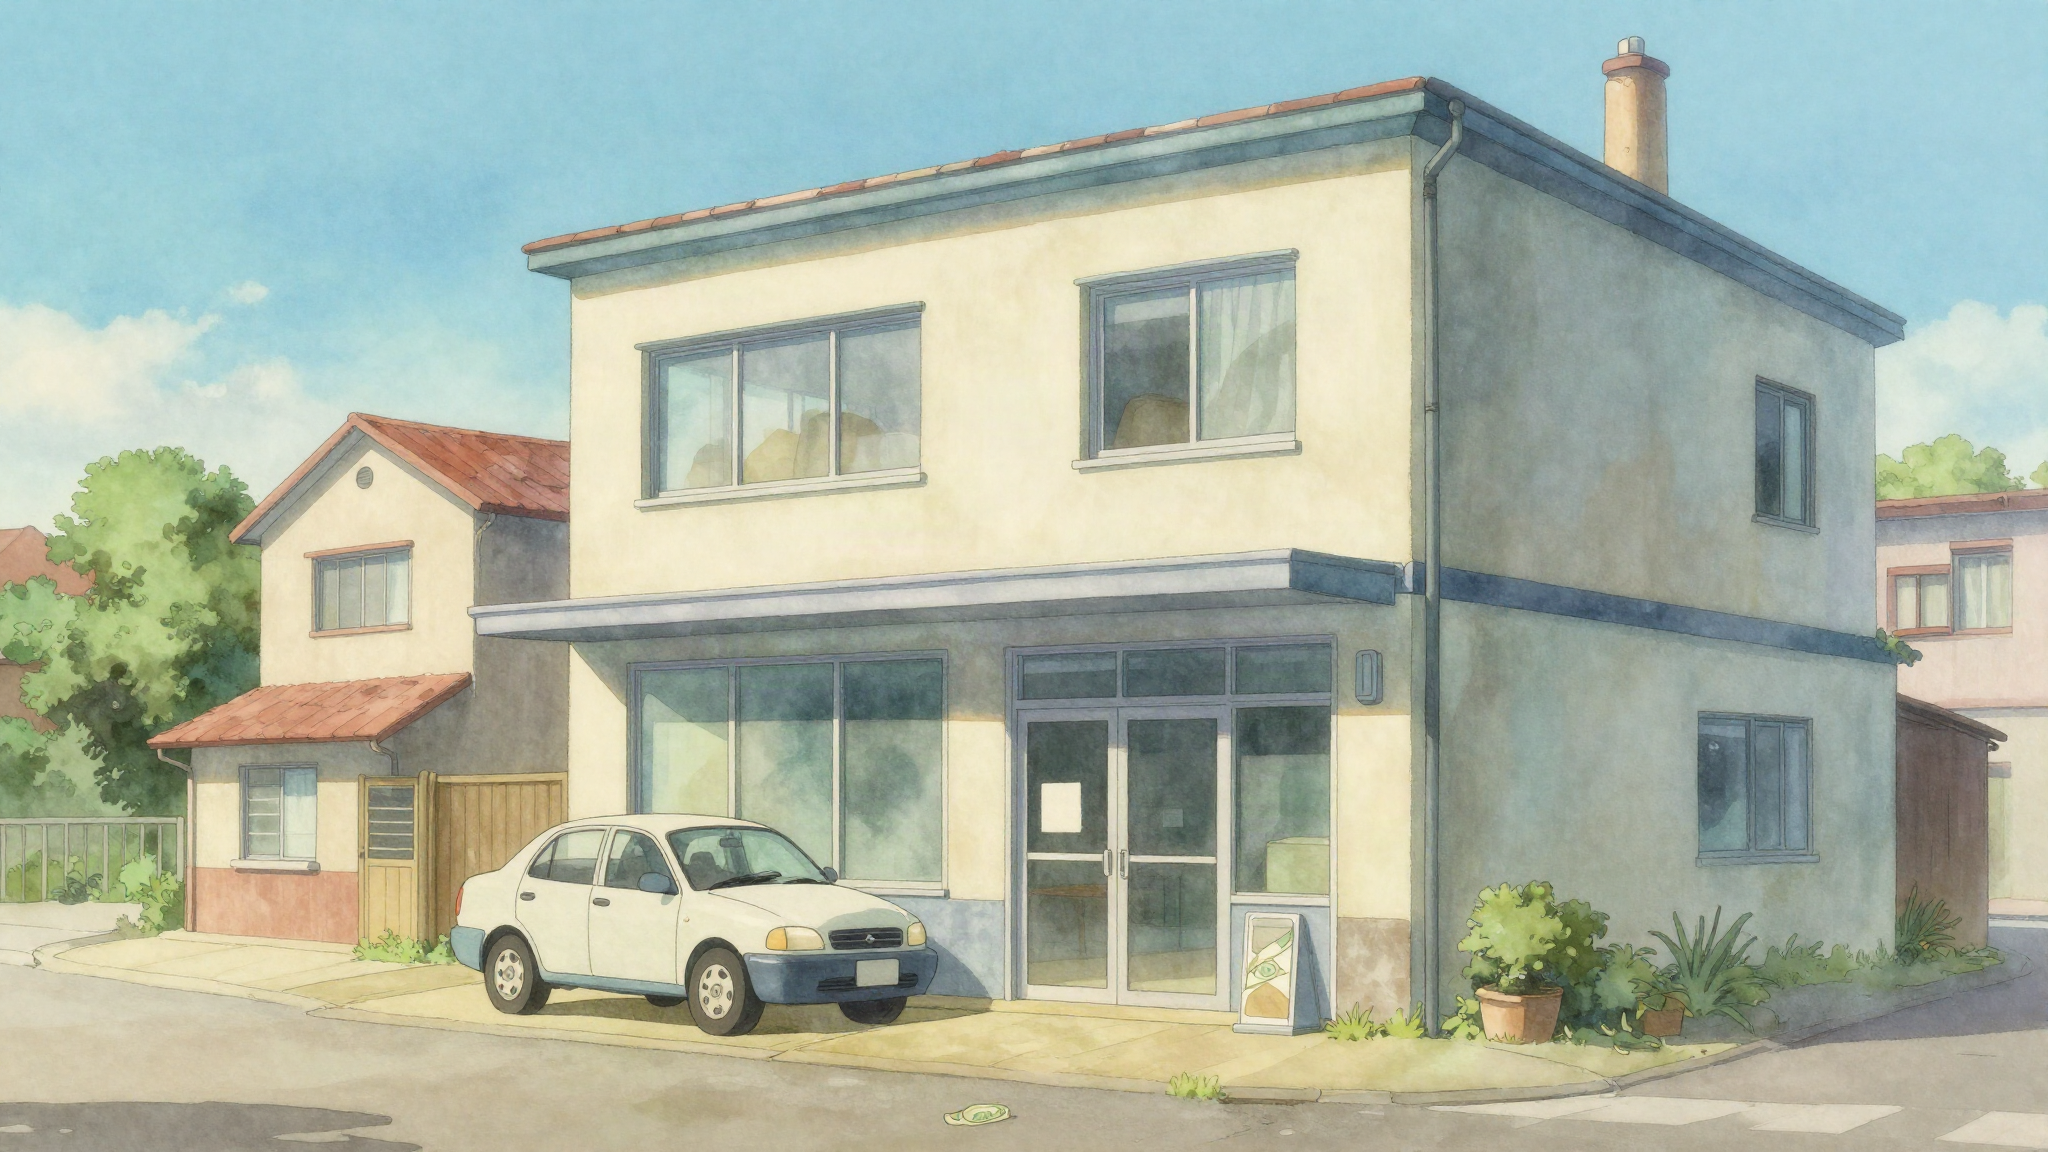
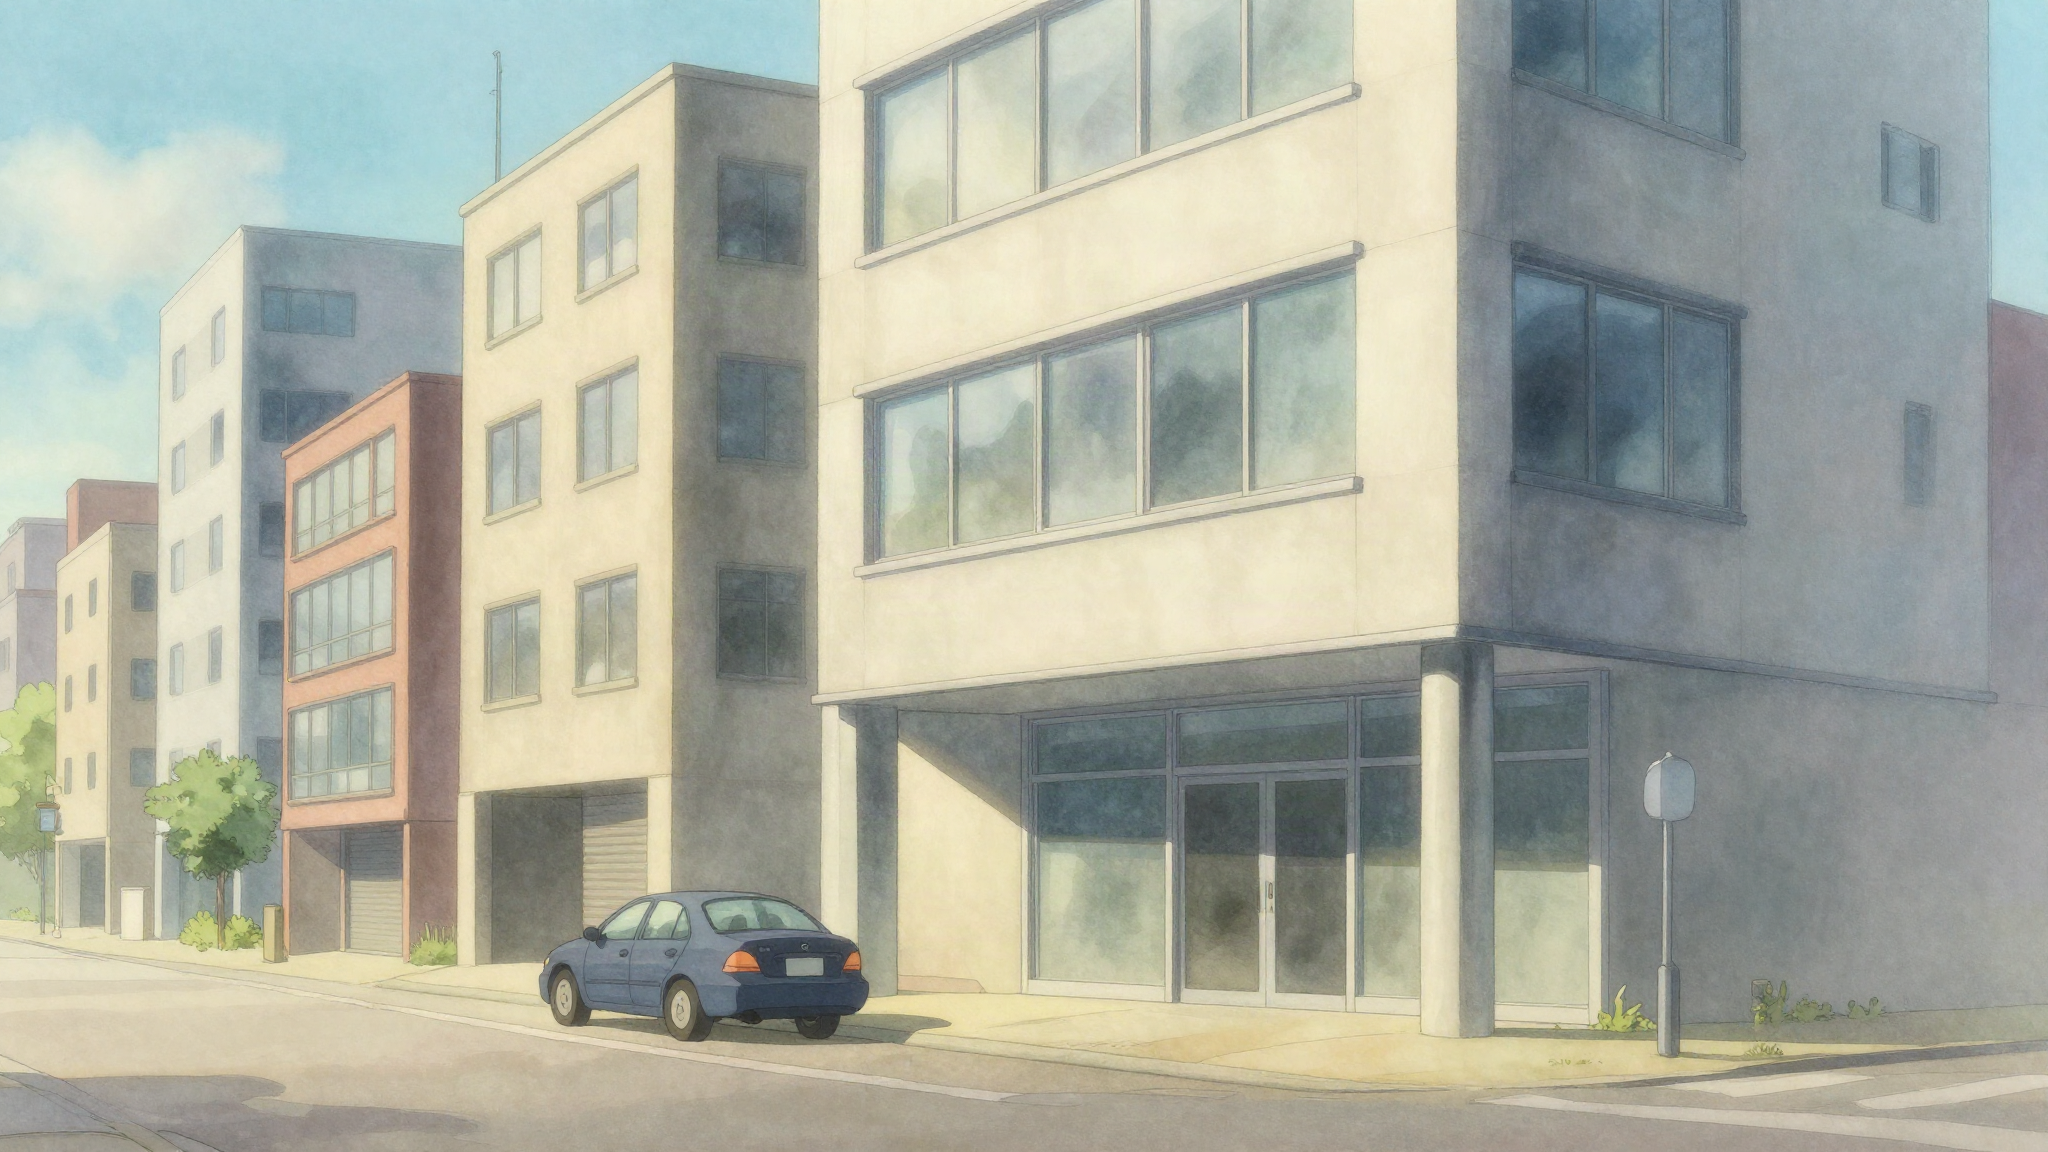
Renew all imagery with city skyline setting for loan-brokerage identity
Replace countryside/house scenes with urban buildings, office towers, and
a city street, matching a loan brokerage (대부중개업) business rather than
a general rural-feeling consultancy. Regenerated a few images a second
time after the model rendered stray fake text on signage/documents.

diff --git a/components/sections/services.tsx b/components/sections/services.tsx
@@ -44,7 +44,7 @@ export function Services() {
             <div className="relative mt-8 hidden aspect-3/2 overflow-hidden rounded-4xl border border-border/60 shadow-lg shadow-primary/5 md:block">
               <Image
                 src="/images/services.png"
-                alt="자동차와 현금을 두고 금융중개 상담을 진행하는 모습"
+                alt="도심 사무실에서 차량 키와 현금을 주고받으며 대부중개 상담을 진행하는 모습"
                 fill
                 className="object-cover"
                 sizes="50vw"

diff --git a/components/sections/trust.tsx b/components/sections/trust.tsx
@@ -14,7 +14,7 @@ export function Trust() {
         <div className="relative aspect-4/5 overflow-hidden rounded-4xl border border-border/60 shadow-lg shadow-primary/5">
           <Image
             src="/images/trust.png"
-            alt="따뜻한 빛이 감싸는 작은 집으로 표현한 신뢰와 안전"
+            alt="도시 스카이라인 속에서 따뜻하게 빛나는 빌딩과 신뢰를 상징하는 동전"
             fill
             className="object-cover"
             sizes="(min-width: 768px) 50vw, 100vw"

diff --git a/components/sections/hero.tsx b/components/sections/hero.tsx
@@ -51,7 +51,7 @@ export function Hero() {
           <div className="relative aspect-16/9 overflow-hidden rounded-4xl border border-border/60 shadow-xl shadow-primary/10">
             <Image
               src="/images/hero.png"
-              alt="차량이 나란히 주차된 Key We Company 재무 상담 사무실 전경"
+              alt="도심 빌딩가에 위치한 Key We Company 사무실과 앞에 주차된 차량"
               fill
               priority
               className="object-cover"

diff --git a/components/sections/process.tsx b/components/sections/process.tsx
@@ -40,7 +40,7 @@ export function Process() {
       <div className="relative mt-10 aspect-21/9 w-full overflow-hidden rounded-4xl border border-border/60 shadow-lg shadow-primary/5">
         <Image
           src="/images/process.png"
-          alt="단계적으로 이어지는 재무 설계 여정을 표현한 마을 길"
+          alt="빌딩 사이로 해가 떠오르는 도심 거리로 표현한 재무 설계 여정"
           fill
           className="object-cover"
           sizes="100vw"
